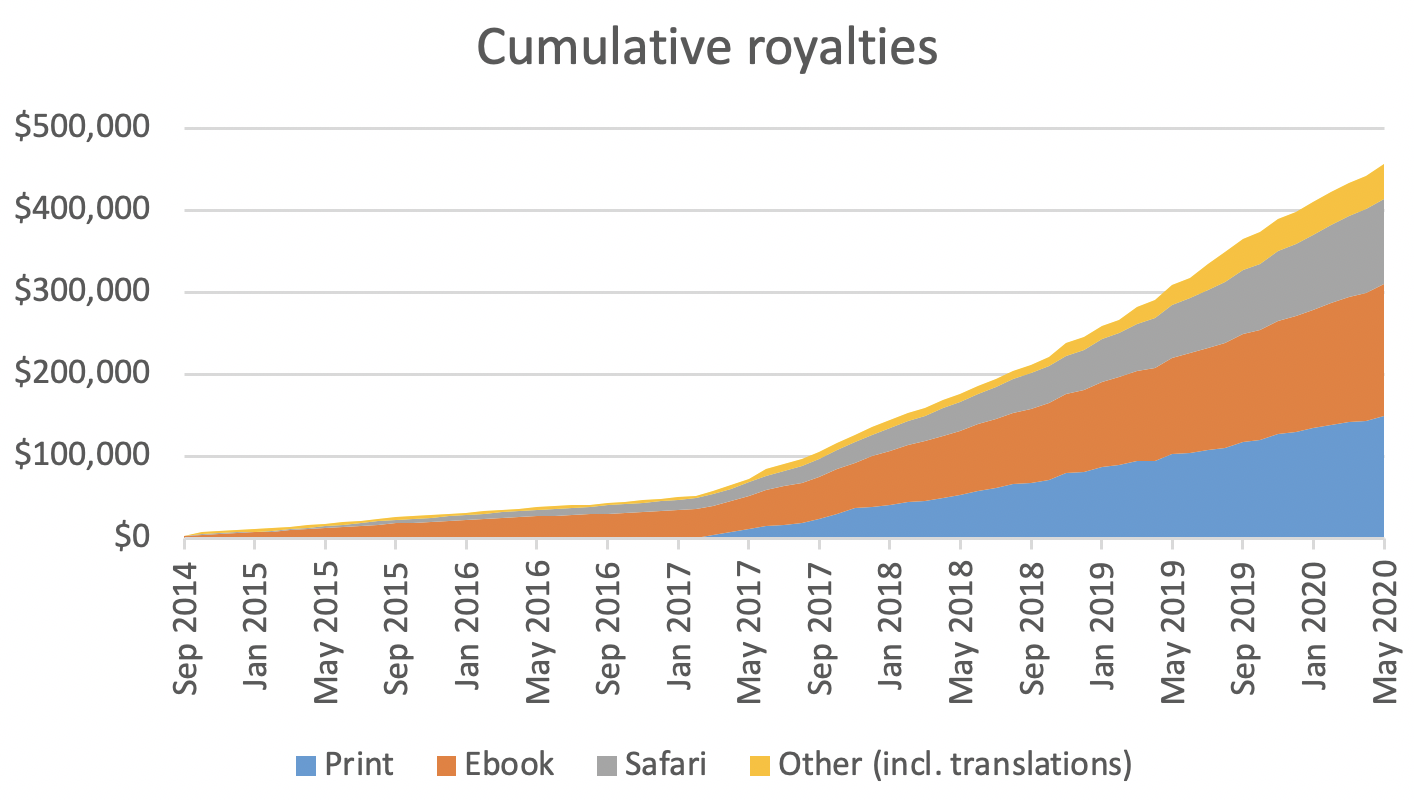
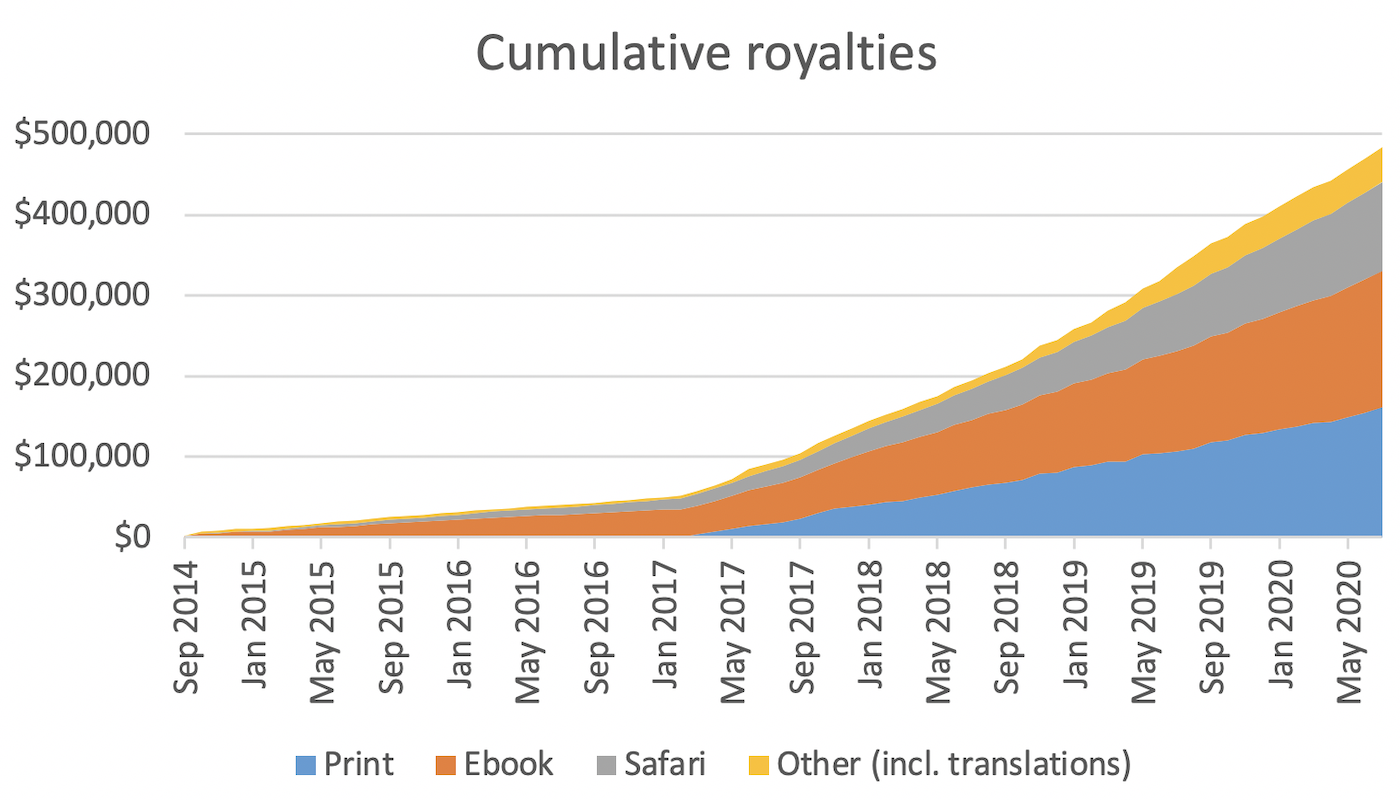
Publish book-writing blog post

diff --git a/src/_posts/2020-09-29-is-book-writing-worth-it.md b/src/_posts/2020-09-29-is-book-writing-worth-it.md
@@ -40,28 +40,28 @@ was officially published, and the print edition went on sale. Since then, the sa
 from month to month, but on average they have stayed remarkably constant. At some point I would
 expect the market to become saturated (i.e. most people who were going to buy the book have already
 bought it), but that does not seem to have happened yet: indeed, sales noticeably increased in late
-2018 (I don't know why). The x axis ends at May 2020 because from the time of sale, it takes
+2018 (I don't know why). The x axis ends in July 2020 because from the time of sale, it takes
 a couple of months for the money to trickle through the system.
 
 My contract with the publisher specifies that I get 25% of publisher revenue from ebooks, online
 access, and licensing, 10% of revenue from print sales, and 5% of revenue from translations. That's
 a percentage of the wholesale price that retailers/distributors pay to the publisher, so it doesn't
-include the retailers' markup. The figures in this section are the royalties I was paid, not the
-publisher revenue.
+include the retailers' markup. The figures in this section are the royalties I was paid, after the
+retailer and publisher have taken their cut, but before tax.
 
 The total sales since the beginning have been (in US dollars):
 
-* Print: 64,373	copies, $149,166 royalties ($2.32/book)
-* Ebook: 31,786	copies, $160,469 royalties ($5.05/book)
-* O'Reilly online access (formerly called Safari Books Online): $104,677 royalties
+* Print: 68,763 copies, $161,549 royalties ($2.35/book)
+* Ebook: 33,420	copies, $169,350 royalties ($5.07/book)
+* O'Reilly online access (formerly called Safari Books Online): $110,069 royalties
   (I don't get readership numbers for this channel)
-* [Translations](http://dataintensive.net/translations.html): 5,566 copies, $7,810 royalties ($1.40/book)
-* Other licensing and sponsorship: $33,988 royalties
-* Total: $456,110
+* [Translations](http://dataintensive.net/translations.html): 5,896 copies, $8,278 royalties ($1.40/book)
+* Other licensing and sponsorship: $34,600 royalties
+* Total: 108,079 copies, $477,916
 
 A lot of money, but I also put a lot of time into it! I estimate that I spent about 2.5 years of
 full-time equivalent work researching and writing the book, spread out over the course of 4 years.
-Of that time, I spent 1 year (2014--15) working full-time on the book without income, while the
+Of that time, I spent one year (2014--15) working full-time on the book without income, while the
 rest of the time I worked on the book part-time alongside part-time employment.
 
 Now, in retrospect, it turns out that those 2.5 years were a good investment, because the income
@@ -190,8 +190,9 @@ Writing a technical book is not easy, but it is:
 * economically viable (it is possible to generate a reasonable level of income from it).
 
 It would be interesting to compare it to working on open source software, another activity that can
-have significant positive impact but is difficult to get paid for. I don't have a strong opinion on
-this at the moment.
+have significant positive impact but is
+[difficult to get paid for](https://www.amazon.com/Working-Public-Making-Maintenance-Software/dp/0578675862/ref=as_li_ss_tl?ref_=nav_signin&&linkCode=ll1&tag=dataintensive-20&linkId=a152ade47ab23a9351d3e24950a89515&language=en_US).
+I don't have a strong opinion on this at the moment.
 
 On the downside, writing a book is really hard, at least if you want to do it well. For me it was
 about the same level of difficulty as building and selling a
